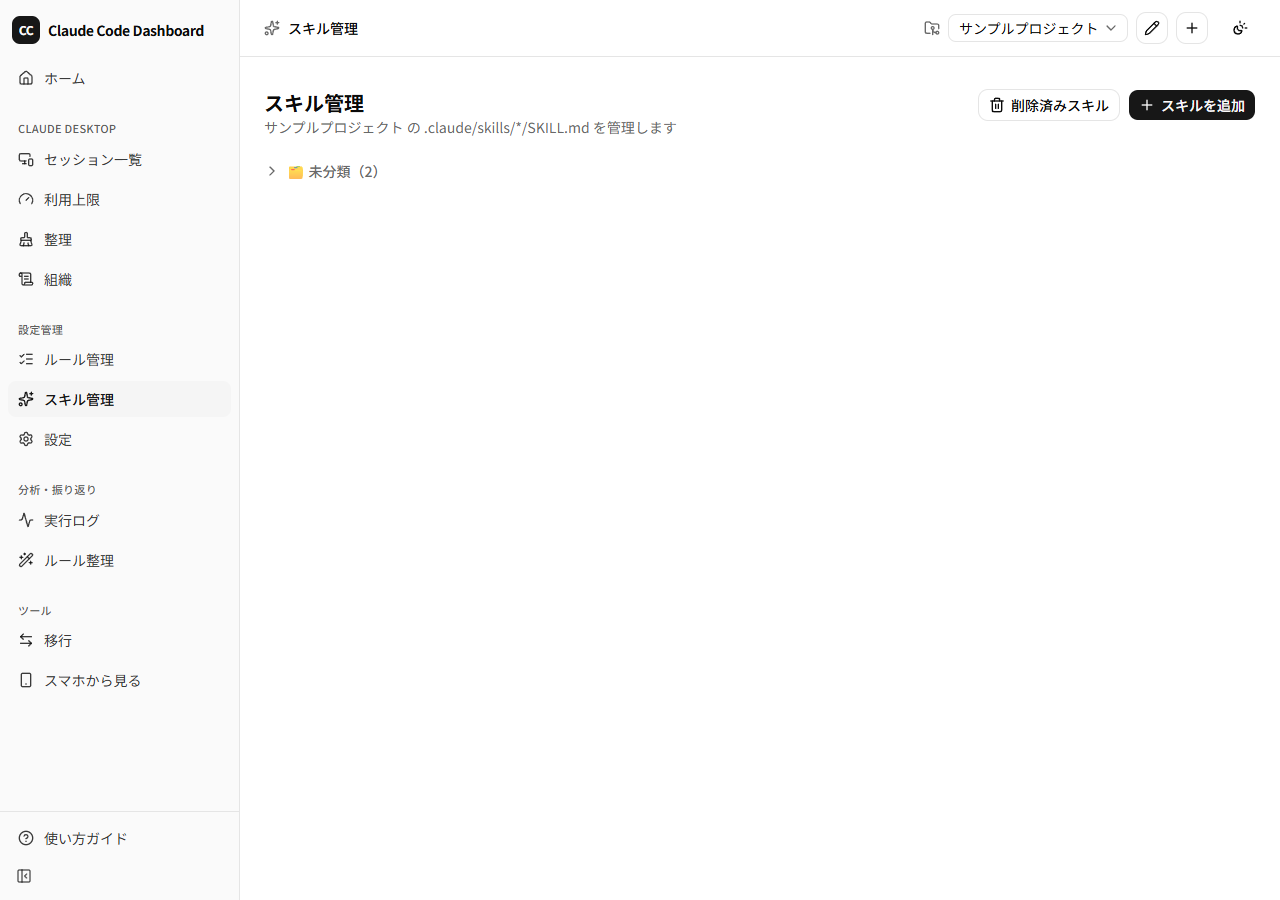
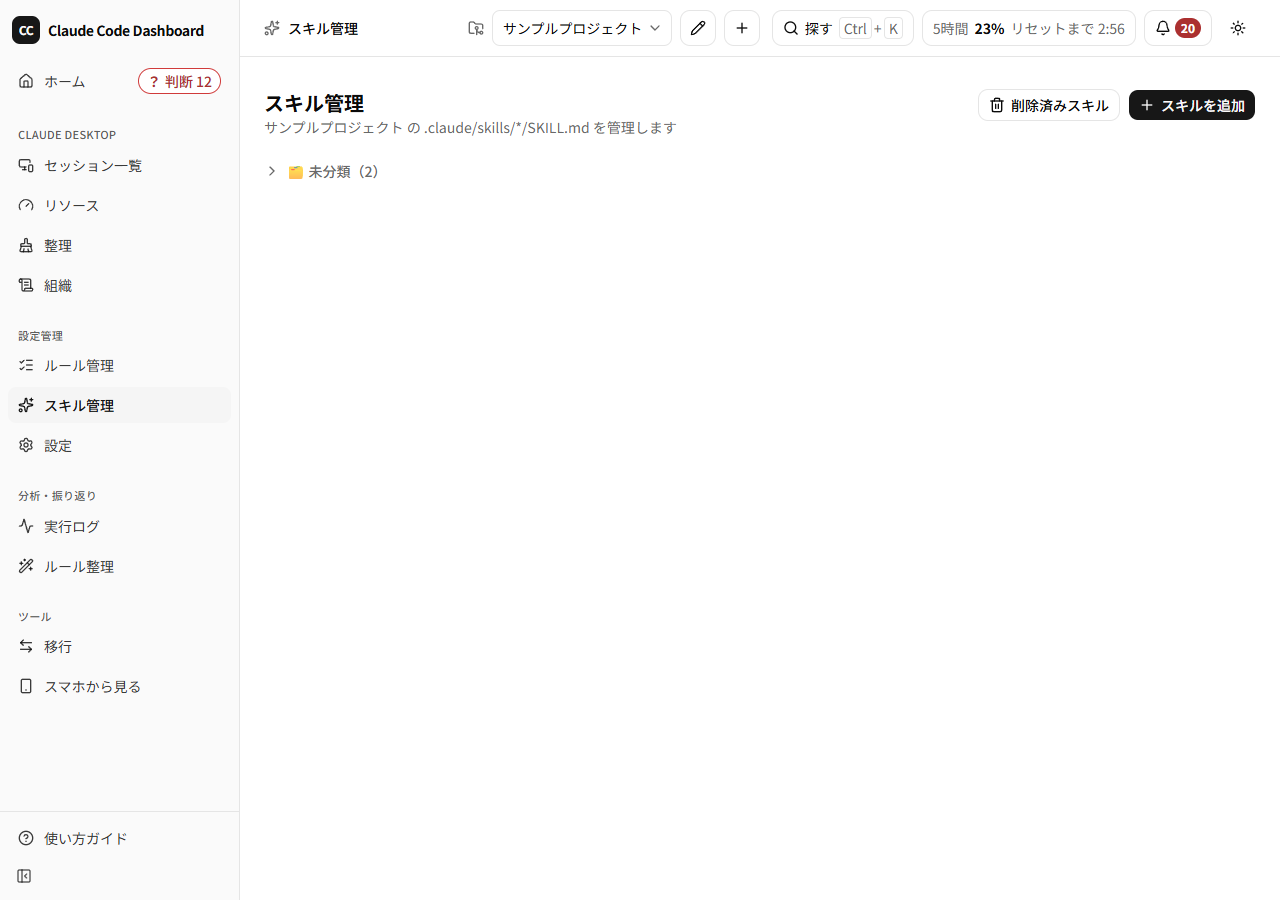
docs: ⑮ 段6 使い方ガイド・README・/help と画像を上のバーと看板に合わせる
- README：上のバー（探す・利用上限の札・知らせの鐘）の項、セッション一覧の看板、設定のツリーに inbox-read.json
- 使い方ガイド：共通の部分に探す・札・鐘・判断 n・状態の印の表、看板の節、上限ガードの文言、9-1 に inbox-read.json
- /help：用語6つ（探す・利用上限の札と控える・知らせの鐘と未読・判断 n・状態の印・看板と静か）と FAQ の文言
- 画像：上のバーが写る17枚を撮り直し、看板・鐘・探すの3枚を足した（合成データ・窓を出さない Electron）

要件: OR-1・OR-2・OR-3・OR-4・OR-5

diff --git a/src/app/help/page.tsx b/src/app/help/page.tsx
@@ -122,6 +122,35 @@ const GLOSSARY: { term: string; description: string }[] = [
     term: "記録なし",
     description: "CPU の記録が3分を超えて空いた所。PC の再起動や、記録の仕組みが止まっていた間。［負荷］の図で灰色になる。",
   },
+  {
+    term: "探す（Ctrl+K）",
+    description:
+      "どのページからでも Ctrl+K（または上のバーの「探す」）で開く入力欄。名前の一部で、セッション・グループ・ページを探す（全角と半角、大文字と小文字は区別しない）。何も打たないときは、次にやる判断・終わった・止まったかもしれないを3件ずつ出す。Enter で詳細、Shift+Enter で Claude Desktop で開くだけ、Esc で閉じる。",
+  },
+  {
+    term: "利用上限の札・控える",
+    description:
+      "上のバーの、いちばんきつい利用上限の％。上限ガード中か、5時間・週の％が80%以上のときは、黄色の地に「！ 控える」が付く（ホームの帯と同じ決め方）。押すと全部の窓がきつい順に出る。",
+  },
+  {
+    term: "知らせの鐘・未読",
+    description:
+      "上のバーの鐘の数は、見ていない知らせの数（新しく判断待ちになった・報告してターンが終わった・送信上限で止まった・PC の警告・利用上限が80%／95%を超えた）。閉じていた間の分も開いたときに出る。押して見たものは既読になり、見た時刻・対象の ID・種類だけを config/inbox-read.json に覚える（30日で消える）。",
+  },
+  {
+    term: "判断 n",
+    description: "サイドバーのホームの横の数。次にやる判断の件数（ホームと同じ）。",
+  },
+  {
+    term: "状態の印",
+    description:
+      "どのページでも同じ形の、記号と文字と色の印。？＝判断待ち・×＝送信上限やエラー（色は次にやる判断の段：急ぎ＝赤・今日中＝琥珀・いつでも＝灰）、◌＝作業中（青）、‖＝止まったかも（琥珀）、●＝終わった（緑）、－＝静か（灰）。",
+  },
+  {
+    term: "看板・静か",
+    description:
+      "セッション一覧の［看板］。次にやる判断・作業中（下に止まったかもしれない）・完了（未読と24時間）・静かの4列。静かは、24時間より前に動いた見た物。確認待ち・中断の可能性・エラーは静かに入らない。",
+  },
 ]
 
 interface PageGuide {
@@ -172,7 +201,7 @@ const PAGE_GUIDES: PageGuide[] = [
     label: "セッション一覧",
     icon: MonitorSmartphone,
     description:
-      "Claude Desktopの全セッションを一覧し、どれが動いていて、どれが止まっているかを確認する（読み取り専用、5秒ごとに更新）。サイドバーの「Claude Desktop」には、このページのほかに「リソース」「整理」「組織」のページがあり、見たい内容ごとに分かれている（組織図はホームに出る）。状態（実行中・要対応〈許可待ち・承認待ち・判断待ち〉・待機・確認待ち・完了・中断の可能性・入力待ち）、モデル・エフォート、サイドバーのグループ、コンテキスト使用量、タスクリストの進み具合（実行中のステップ名）、最新の指示の先頭60文字（人／他セッション／通知を区別。起動直後は、会話ログの末尾だけを先に調べるため、人以外の指示が出ている間は「解析中」の印が付き、全体の解析が済むと人の指示に置き換わる）、要対応のセッションには要対応の内容の先頭60文字を表示する。「一覧」「グループ別」の切替と、状態・グループ・モデル・作業フォルダの絞り込みができる。「要対応・確認待ち・完了」はDesktopがターン後に付けた分類、「実行中」「中断の可能性」は会話ログの更新状況からの推定。コンテキスト使用量の上限は記録されていないため、モデルごとの仮置き値で割っている。行を押すとタスクリスト全体と「健康」の欄が開く。「健康」を開くと、会話ログから、無限ループ（沼）の兆候・ワークフローの安定性・拡張機能（MCP）の稼働・セッションの寿命の4つの観点の診断（良好・注意・要対処と、根拠・判定基準・次の行動）と、Claude Code のターミナルで session-diagnostician スキルを実行したときの AI 診断が出る（会話ログの解析は重いので、開いたときだけ読む）。「要対応」の件数カードは、ホームの「次にやる判断」と同じ数え方。ページ上部のスイッチで、デスクトップ通知（新しく要対応になったとき・利用上限が80%・95%を超えたとき・送信上限で止まったとき）をオンにできる（初期値はオフ。exeはOSの通知、ブラウザはブラウザの通知の許可が必要。外部のサービスは使わず、通知にはセッション名と要対応の内容の抜粋だけを出す。同じセッションの同じ状態では1回だけ通知し、起動直後にすでに要対応だったものは通知しない。通知をクリックすると、そのセッションの詳細が開く）。Desktopのデータが読めない場合は、会話ログだけの縮退表示に切り替わる。各セッションには、他のセッションへ送ったメッセージの数（送信 n/10。人が最後に入力してからの回数で、8回以上で黄、10回で赤）を表示し、上限で止まっているセッションは「送信上限で停止中」と赤で示す。",
+      "Claude Desktopの全セッションを一覧し、どれが動いていて、どれが止まっているかを確認する（読み取り専用、5秒ごとに更新）。サイドバーの「Claude Desktop」には、このページのほかに「リソース」「整理」「組織」のページがあり、見たい内容ごとに分かれている（組織図はホームに出る）。状態（実行中・要対応〈許可待ち・承認待ち・判断待ち〉・待機・確認待ち・完了・中断の可能性・入力待ち）、モデル・エフォート、サイドバーのグループ、コンテキスト使用量、タスクリストの進み具合（実行中のステップ名）、最新の指示の先頭60文字（人／他セッション／通知を区別。起動直後は、会話ログの末尾だけを先に調べるため、人以外の指示が出ている間は「解析中」の印が付き、全体の解析が済むと人の指示に置き換わる）、要対応のセッションには要対応の内容の先頭60文字を表示する。「一覧」「グループ別」の切替と、状態・グループ・モデル・作業フォルダの絞り込みができる。「要対応・確認待ち・完了」はDesktopがターン後に付けた分類、「実行中」「中断の可能性」は会話ログの更新状況からの推定。コンテキスト使用量の上限は記録されていないため、モデルごとの仮置き値で割っている。行を押すとタスクリスト全体と「健康」の欄が開く。「健康」を開くと、会話ログから、無限ループ（沼）の兆候・ワークフローの安定性・拡張機能（MCP）の稼働・セッションの寿命の4つの観点の診断（良好・注意・要対処と、根拠・判定基準・次の行動）と、Claude Code のターミナルで session-diagnostician スキルを実行したときの AI 診断が出る（会話ログの解析は重いので、開いたときだけ読む）。「要対応」の件数カードは、ホームの「次にやる判断」と同じ数え方。ページ上部のスイッチで、デスクトップ通知（新しく要対応になったとき・利用上限が80%・95%を超えたとき・送信上限で止まったとき）をオンにできる（初期値はオフ。exeはOSの通知、ブラウザはブラウザの通知の許可が必要。外部のサービスは使わず、通知にはセッション名と要対応の内容の抜粋だけを出す。同じセッションの同じ状態では1回だけ通知し、起動直後にすでに要対応だったものは通知しない。通知をクリックすると、そのセッションの詳細が開く）。Desktopのデータが読めない場合は、会話ログだけの縮退表示に切り替わる。各セッションには、他のセッションへ送ったメッセージの数（送信 n/10。人が最後に入力してからの回数で、8回以上で黄、10回で赤）を表示し、上限で止まっているセッションは「送信上限で停止中」と赤で示す。上の切り替えの［看板］で、次にやる判断・作業中・完了（未読と24時間）・静かの4列に分けて見られる（並びは急ぐ順 → 新しい順。マウスが看板の上にある間は入れ替わらない）。",
   },
   {
     href: "/desktop-sessions/usage",
@@ -261,7 +290,7 @@ const FAQ: { q: string; a: string; id?: string }[] = [
   },
   {
     q: "利用上限の通知や「上限ガード」の帯はいつ出る？",
-    a: "デスクトップ通知は、「セッション一覧」「利用上限」のページ上部にある通知のスイッチをオンにしているとき、ゲージの%（推定があれば推定）が80%・95%を超えた時点で、枠ごと・しきい値ごとに1回だけ出ます（開いた直後にすでに超えていたものは通知しません）。帯は、最新の公式値が80%以上のとき「上限に近づいています」、90%以上のとき「上限ガード中：新しい指示は保留中です」と、Claude Desktopの各ページ（セッション一覧・利用上限など）の上部に出ます。ホームでは、利用上限の1行の帯に出ます。ガードの判断そのものは運用ルール側で行い、ダッシュボードは表示するだけです。帯の%は公式値、ゲージの%は推定を含む値なので、丸めた値が違うときは、帯に推定の%も添えます。ゲージの色と通知は、画面に出す丸めた%で決めます（94.6%は95%と出て赤になり、95%の通知も出ます）。ゲージの「100%に達する見込み」がリセットより前でも、その差が小さい（5時間の枠は15分以内、週の枠は2時間以内）ときは、予測の誤差の範囲なので、赤い警告ではなく黄色で「リセットとほぼ同時」と示します。「誰が使っているか」の積み上げ棒は、ドルではなく「上限の何%に当たるか」で表します（定額プランでは、ドルが請求額と誤解されやすいため）。1%あたりの金額が決まらない間は、全体に占める割合で表します。",
+    a: "デスクトップ通知は、「セッション一覧」「利用上限」のページ上部にある通知のスイッチをオンにしているとき、ゲージの%（推定があれば推定）が80%・95%を超えた時点で、枠ごと・しきい値ごとに1回だけ出ます（開いた直後にすでに超えていたものは通知しません）。帯は、最新の公式値が80%以上のとき「上限に近づいています：新しい指示を控える」、90%以上のとき「上限ガード中：新しい指示を控える」の1行で、Claude Desktopの各ページ（セッション一覧・リソースなど）の上部に出ます（%は上のバーの利用上限の札に出ます）。ホームでは、利用上限の1行の帯に出ます。ガードの判断そのものは運用ルール側で行い、ダッシュボードは表示するだけです。札の小窓では、公式値と推定（ゲージの%）の両方が見られます。ゲージの色と通知は、画面に出す丸めた%で決めます（94.6%は95%と出て赤になり、95%の通知も出ます）。ゲージの「100%に達する見込み」がリセットより前でも、その差が小さい（5時間の枠は15分以内、週の枠は2時間以内）ときは、予測の誤差の範囲なので、赤い警告ではなく黄色で「リセットとほぼ同時」と示します。「誰が使っているか」の積み上げ棒は、ドルではなく「上限の何%に当たるか」で表します（定額プランでは、ドルが請求額と誤解されやすいため）。1%あたりの金額が決まらない間は、全体に占める割合で表します。",
   },
   {
     q: "「送信上限で停止中」と出たセッションはどうすればいい？",

diff --git a/README.md b/README.md
@@ -8,13 +8,14 @@ Webアプリ側は重い処理を行わず、実際の `.claude/CLAUDE.md` / `.c
 
 ## 実装済み機能
 
+- **上のバー（PC の全ページ。⑮）**— 右に **探す**・**利用上限の札**・**知らせの鐘**・テーマの切り替えを並べる（押せる所はすべて36px。1100px 未満は、探すは虫眼鏡だけ、札は％まで）。**探す**（`Ctrl+K`。字を打っている欄の中では横取りしない）は、空のときに 次にやる判断（新しい順）→ 終わった → 止まったかもしれない を束ごとに3件まで出し、打つとセッション（題名・グループ・作業フォルダの名前）・グループ・13ページを部分一致で探す（全角と半角、大文字と小文字は区別しない。アーカイブ済みは探さない）。Enter でセッションの詳細、Shift+Enter で Claude Desktop のそのセッションを開くだけ、グループはセッション一覧をそのグループに絞る。日本語の変換を確定する Enter では動かない。Ctrl+1〜6 は配る exe だけの近道。**利用上限の札**は、いちばんきつい窓の％（と、広いときはリセットまでの時間）。「！ 控える」と黄色の地はホームの帯と同じ式（上限ガード中、または 5時間・週の表示の値が80%以上）。押すと全部の窓をきつい順に、棒・％・推定か公式値か・リセットまでで出す。**知らせの鐘**は未読の数（100以上は「99+」）。知らせは5種（新しく判断待ちになった・報告してターンが終わった・送信上限で止まった・PC の警告・利用上限が80%／95% を超えた）で、今読んでいる時刻つきの記録（セッションの一覧・利用上限の記録・PC の警告の記録）から組み立てるので、窓を閉じていた間の分も出て、デスクトップ通知のスイッチとも関係ない。行を押すと、セッションは看板のそのカード、PC の警告はリソース［負荷］、利用上限はリソース［利用上限］へ移り、既読にする。既読は `config/inbox-read.json` に「見た時刻・対象の ID・知らせの種類」だけを覚え（30日で消す）、書き込みは PC の画面からだけ。サイドバーのホームの横には「？ 判断 n」（次にやる判断と同じ数）。状態の印は全画面で1つの部品（記号と文字と色。判断は次にやる判断の段の色〈急ぎ＝赤・今日中＝琥珀・いつでも＝灰〉、作業中＝◌ 青、止まったかも＝‖ 琥珀、終わった物＝● 緑）。上のバーとサイドバーは、セッション系でないページでは30秒ごとに読み、見えないときは読まない。会話の本文を出す抜粋は、PC でも秘密らしい文字列を伏せてから切る
 - **ホーム**（`/`）— いちばん上に、利用上限の1行の帯（5時間・週の%。80%以上か上限ガード中は太字の「！ 新しい指示を控える」。その上に、⑭ の PC の警告の1行〈直近10分は赤い枠、過ぎてから24時間は灰色。無いときは出ない〉）と、**次にやる判断**（⑬）を出す。次にやる判断は、あなたが答える・押す・開いて一言入れるまで止まっているセッション（許可待ち・承認待ち・質問・種類不明・送信上限で停止・エラー・届かなかった送信。待機は入れない。数え方は整理ページの件数・通知・セッション一覧の「要対応」の件数カードと同じ `collectDecisions`）を、急ぎ（送信上限・許可・エラー・立てたセッションが答えを待っている）・今日中（承認・届かない送信・待ち2時間以上）・いつでもの順に並べ（7日以上そのままのものは、理由があっても「いつでも」の最後に下げ、件数に「うち7日以上 n」と出す。「コミットの許可をください」のように許可の語とコミット・push などの語が同じ文にあるものは承認）、最初は5件まで（急ぎは全部）と［ほか n件を出す］。各行は、種類・題名・問いの文（wrap_up の ask → AskUserQuestion の先頭の問い → ExitPlanMode の1行目 → 要約の needs_action の順。3行まで、超えると［全文を開く］。許可は結果を待っているツールの先頭40字で、秘密らしい文字列を伏せる）・答えの候補（AskUserQuestion の選択肢と wrap_up のボタンの名前だけ。推しは「(Recommended)」「（推奨）」の印のあるものと、wrap_up の問いのときの先頭のボタン〈wrap_up の道具が推しを先頭に置くため〉）・待ち時間と、Claude Desktop でそのセッションを開く［セッションを開く］。問いの全文と候補をサーバーが返すのは、判断を待つセッションだけ（`src/lib/decisionDetail.ts`。パスはスマホと同じ関数で隠す）。答えはダッシュボードからは送らない。判断の要らないセッションは状態ごとの件数を1行で出す。その下に組織図（前回見ていたグループ）と、組織図に出ていないセッションの件数・組織の「つながり」への入口の1文。選んでいるプロジェクトは使わない。遅い PC でも段階を追って出す（⑫）：見出しと枠は静的な HTML に入り、件数と利用上限 → 次にやる判断の問い → 組織図の順に出し、1.5秒以上待ったときだけ上のバーに段階の印を出す。30秒たった欄には「時間がかかっています（30秒以上）。このまま待てます」と［もう一度読み込む］を、サーバーが失敗を返した欄には「読み込めませんでした」と［もう一度読み込む］を出す。サーバーは起動の直後に一覧と利用上限の台帳を裏で読み始める（`src/instrumentation.ts`）
 - **ルール管理**（`/rules`）— `CLAUDE.md` の `## 見出し` をルールとして直接パース。ON/OFFトグル（`<!-- CCD:DISABLED -->` で無効化）、追加/編集/削除（削除は確認ダイアログつき。CLAUDE.mdを書き換えるたびに直前の内容を自動で退避）、ドラッグ&ドロップによる表示順（=CLAUDE.mdの記載順）の並び替え、次回用プロンプト集（実行ログ由来）
 - **スキル管理**（`/skills`）— `.claude/skills/*/SKILL.md` の一覧・追加・編集・削除（確認ダイアログつき。完全削除はせず`skills-trash/`へ退避し、「削除済みスキル」から復元できる）・改名（ディレクトリ名変更。呼び出しコマンドが変わる旨を確認表示）・カテゴリ別グルーピング表示（frontmatterの`category`フィールドに基づく表示上の分類。実ファイルはフラット配置のまま。初めは閉じる）・有効/無効の切り替え（無効にすると`skills-disabled/`へ移し、Claude Codeから呼び出せなくなる）。対象モデル（frontmatterの`target-model`。自由入力）と成熟度（`references`/`scripts`/`evals`サブフォルダの有無）は各カードの「詳しく」に、似ているスキルの組（同じカテゴリ内でdescriptionが似た組）は閉じた欄に出す（数が増えたときだけ役立つので、初めは閉じる。⑬）。モデル別アーカイブと世代の切り替えは、スキル5個では使う場面が無いのでやめた（⑬。版は「バックアップ」と「削除済みスキル」で戻せる）
 - **設定 & システム情報**（`/settings`）— `settings.json`（権限モード・環境変数・statusLine）を読み取り専用で表示し、バックアップのタブには、Claude Code本体の`.claude.json`バックアップと、このダッシュボードが書き換え・削除の直前に作った退避（`*.ccd-backup.<epoch>`）が並び、復元できる（復元の直前の内容も退避される）。JSON の直接の編集（壊すと Claude Code が動かない）と、見ても何もできないブロック済みプラグインの一覧は、⑬ でやめた。下の「ページを開いた回数」（指示47・FS-7）は、スイッチ「開いた回数を数える」（初期値オン）と、直近7日・30日・最後に開いた日の表。サイドバーの13ページのパスと日付ごとの回数だけを `config/page-visits.json` に保存し（直近30日）、画面からは1日1パス1回・まとめて1分に1回まで送り、サーバーもファイルへは1分に1回まで書く。外部へは送らない。書き込みは PC の画面からだけ
 - **スマホから見る**（`/lan-access`）— 同じ家の Wi-Fi のスマホから、ホーム・セッション一覧・利用上限・整理の4ページを読み取り専用で見る（既定はオフ）。Next のサーバーは 127.0.0.1 のままにし、オンのときだけ別の入り口（`src/lib/lanAccess/gateway.ts`。番号 38418）が PC のプライベートな IPv4 で待ち受けて、判定（`gatewayPolicy.ts`）を通った GET・HEAD だけを中継する（Next の proxy では相手のアドレスが分からず、Host を偽るとループバック扱いになるため）。入り口は、Host が PC の IP:38418 であること・接続元がプライベートな IPv4 であること・登録した端末の鍵（HttpOnly・SameSite=Strict のクッキー。サーバーはハッシュだけを持つ）・許可リストを確かめ、書き込みは鍵があっても 403。端末は PC の画面の登録コード（QR・5分・1回限り）で登録し、期限は90日、10台まで、端末ごとに取り消せる。スマホへ返す API の応答では、作業フォルダのパスを最後のフォルダ名だけにする。入り口は `src/instrumentation.ts` で起動し、オン・オフは再起動なしで反映する。通信は HTTP（暗号化なし）なので、家の Wi-Fi の中だけで使う。スマホにはスマホ用の画面（`src/app/phone`・`src/components/phone`）を出す。proxy が入り口の経由の要求だけを振り替えるので、URL は PC と同じで、PC のページの描き方（静的）は変わらない。最初の画面に、あなたの対応待ち（件数と上位3件。問いの文を16pxで3行まで出し、入りきらないときだけ［全文を開く］。スマホへ返す問いと候補は、秘密らしい文字とパスを伏せる）・送信上限で停止・実行中の数・利用上限を出し、下の4つのタブで移る。一覧は1件1枚のカードで、詳細は全画面で開く。15秒ごとに読み直し、画面が隠れているあいだは止める。ライト・ダークは端末の設定に合わせる
 - **移行（エクスポート/インポート）**（`/migrate`）— ルール・スキルを1つのJSONファイルに書き出し、他のPC（別プロジェクト）に差分プレビュー付きで取り込む。上書き前に自動バックアップ。インポートは足す・上書きするだけで、今あるルール・スキルは消さない。移るもの・移らないものを画面の上に出す（`src/lib/migrateScope.ts`）。インポートの「ファイルを選択」はドラッグ&ドロップにも対応し、配布版exeでは`dialog.showOpenDialog`をIPC経由で直接呼び出す経路を優先する（環境差でファイル選択ダイアログが開かない事例への対処）
-- **セッション一覧**（`/desktop-sessions`）— Claude Desktopの全セッションを一覧する読み取り専用ビュー（5秒更新。サイドバーの「Claude Desktop」は、見たい内容ごとに「セッション一覧」「リソース」「整理」「組織」のページに分かれ、組織図はホームに出る）。一覧の主データはDesktopが保存するセッションのメタデータ（`claude-code-sessions/*/*/local_*.json`）で、要対応のセッションには要対応の内容の先頭60文字を表示し、会話ログ（`~/.claude/projects/*/<id>.jsonl`）から最新の指示（先頭60文字・発信元つき）・コンテキスト使用量・タスクリストの進み具合・圧縮回数を補い、サイドバーのグループ・ピン留めは`claude_desktop_config.json`の`preferences.epitaxyPrefs`の該当キーだけを読む。状態は、Desktopが付ける分類（要対応・確認待ち・完了）と、会話ログの更新状況からの推定（実行中・中断の可能性）を併記する。**要対応は4つに分ける**：許可待ち・承認待ち・判断待ち・待機（待機は要対応に数えず、ホームの判断待ち・整理ページ・通知から外す）。手がかりは、質問・プランの承認のツールで止まっていること、最後のターンのwrap_upの呼び出しの入力（質問の有無・承認のボタン〈commit・create_pr・merge〉）、無ければDesktopの要約の言葉（「推定」と出す。要約の詳しい文〈status_detail〉は種類を決めるのに使うだけで、返さない）。分け方は`src/lib/needsActionKind.ts`の表。Desktopの内部形式は非公開・非保証のため読み取り処理は`src/lib/desktopSessions.ts`に隔離し、読めない場合は会話ログだけの縮退表示に切り替える。認証トークンを含む`config.json`は読まず、APIは表示用の許可リスト項目だけを返す。新しく要対応になったセッションのデスクトップ通知（初期値はオフ。exeはElectron、ブラウザはNotification API。外部サービスは使わず、本文はセッション名と要対応の内容の抜粋だけ。クリックで詳細を開く）に対応（「CLIプロセスあり」の表示は、判断に使わず PowerShell を定期的に呼ぶ負荷だけが残るので、⑬ でやめた）。行を押して開く詳細には「健康」の欄があり、開くと会話ログ（`~/.claude/projects/*/*.jsonl`）から、無限ループ（沼）の兆候・ワークフローの安定性・拡張機能（MCP）の稼働・セッションの寿命の4つの観点を良好/注意/要対処で判定し、根拠・しきい値・次の行動を出す（`src/lib/sessionDiagnostics.ts` の `diagnoseHealth`。⑬ でセッション監視のページから移した）。Claude Code側のスキル`session-diagnostician`が書き出す`session_diagnosis.json`があれば、AI診断も並べる（ダッシュボード自身はLLMを呼ばない）。他のセッションへのメッセージ送信には「人が最後に入力してから10回まで」という上限があるため、各セッションに**送信回数**（送信 n/10。8回以上で黄、10回で赤。届かなかった送信も数える）を表示し、上限で止まっているセッションは**「送信上限で停止中」**を赤で目立たせて、Claude Desktopでそのセッションを開くボタン（`claude://`のリンク。exeは許可した形式のURLだけを開く）を出す。新しく停止したときのデスクトップ通知（要対応の通知と同じスイッチ）にも対応。回数は会話ログの送信ツール（`SendMessage`・セッション管理の送信ツール）の呼び出しから数え、停止は送信ツールの結果の文言から判定する（文言は非保証のため、判定条件は`src/lib/sessionMessaging.ts`の1か所に集約）。サンプルは`sample-data/claude-desktop/`（すべて合成データ）
+- **セッション一覧**（`/desktop-sessions`）— Claude Desktopの全セッションを一覧する読み取り専用ビュー（5秒更新。サイドバーの「Claude Desktop」は、見たい内容ごとに「セッション一覧」「リソース」「整理」「組織」のページに分かれ、組織図はホームに出る）。一覧の主データはDesktopが保存するセッションのメタデータ（`claude-code-sessions/*/*/local_*.json`）で、要対応のセッションには要対応の内容の先頭60文字を表示し、会話ログ（`~/.claude/projects/*/<id>.jsonl`）から最新の指示（先頭60文字・発信元つき）・コンテキスト使用量・タスクリストの進み具合・圧縮回数を補い、サイドバーのグループ・ピン留めは`claude_desktop_config.json`の`preferences.epitaxyPrefs`の該当キーだけを読む。状態は、Desktopが付ける分類（要対応・確認待ち・完了）と、会話ログの更新状況からの推定（実行中・中断の可能性）を併記する。**要対応は4つに分ける**：許可待ち・承認待ち・判断待ち・待機（待機は要対応に数えず、ホームの判断待ち・整理ページ・通知から外す）。手がかりは、質問・プランの承認のツールで止まっていること、最後のターンのwrap_upの呼び出しの入力（質問の有無・承認のボタン〈commit・create_pr・merge〉）、無ければDesktopの要約の言葉（「推定」と出す。要約の詳しい文〈status_detail〉は種類を決めるのに使うだけで、返さない）。分け方は`src/lib/needsActionKind.ts`の表。Desktopの内部形式は非公開・非保証のため読み取り処理は`src/lib/desktopSessions.ts`に隔離し、読めない場合は会話ログだけの縮退表示に切り替える。認証トークンを含む`config.json`は読まず、APIは表示用の許可リスト項目だけを返す。新しく要対応になったセッションのデスクトップ通知（初期値はオフ。exeはElectron、ブラウザはNotification API。外部サービスは使わず、本文はセッション名と要対応の内容の抜粋だけ。クリックで詳細を開く）に対応（「CLIプロセスあり」の表示は、判断に使わず PowerShell を定期的に呼ぶ負荷だけが残るので、⑬ でやめた）。行を押して開く詳細には「健康」の欄があり、開くと会話ログ（`~/.claude/projects/*/*.jsonl`）から、無限ループ（沼）の兆候・ワークフローの安定性・拡張機能（MCP）の稼働・セッションの寿命の4つの観点を良好/注意/要対処で判定し、根拠・しきい値・次の行動を出す（`src/lib/sessionDiagnostics.ts` の `diagnoseHealth`。⑬ でセッション監視のページから移した）。Claude Code側のスキル`session-diagnostician`が書き出す`session_diagnosis.json`があれば、AI診断も並べる（ダッシュボード自身はLLMを呼ばない）。他のセッションへのメッセージ送信には「人が最後に入力してから10回まで」という上限があるため、各セッションに**送信回数**（送信 n/10。8回以上で黄、10回で赤。届かなかった送信も数える）を表示し、上限で止まっているセッションは**「送信上限で停止中」**を赤で目立たせて、Claude Desktopでそのセッションを開くボタン（`claude://`のリンク。exeは許可した形式のURLだけを開く）を出す。新しく停止したときのデスクトップ通知（要対応の通知と同じスイッチ）にも対応。回数は会話ログの送信ツール（`SendMessage`・セッション管理の送信ツール）の呼び出しから数え、停止は送信ツールの結果の文言から判定する（文言は非保証のため、判定条件は`src/lib/sessionMessaging.ts`の1か所に集約）。サンプルは`sample-data/claude-desktop/`（すべて合成データ）。上の切り替えに［看板］（⑮）：次にやる判断・作業中（下に「止まったかもしれない」）・完了（未読と直近24時間）・静か（24時間より前。［n件を出す］）の列に分け、確認待ち・中断の可能性・エラーは静かに入れない。カードは題名・状態の印・グループ・経過・抜粋1行と、作業計画が読めるときだけ「今：<作業>［段階］」。並びは急ぐ順 → 新しい順で、ポインタが看板の上にある間は入れ替えない。看板のときは一覧の頭の部品を出さず、絞り込みはグループだけ。幅が足りないときは3列にし、静かは1行
 - **リソース**（`/desktop-sessions/usage`。⑭）— 前の「利用上限」のページ。上の下線のタブで［利用上限］［作業と待ち］［負荷］を切り替える（`?tab=usage`・`plan`・`load`。前回のタブは覚えず、サイドバーから開くといつも［利用上限］）。［作業と待ち］は、各セッションが書く作業計画（`work_plan.tsv`）と利用上限の待ち行列（`resume_queue.tsv`）を読み、回復を待っているセッション（回復の見込みの時刻・残り時間・次の一歩）と、グループごとの今の作業（状態・順・大きさ・再開のしやすさ。待ち行列にいるセッションの作業中は「待ち（上限）」）を出す。［負荷］は、CPU の記録（`cpu_YYYYMMDD.tsv`。約1分ごと）を読み、PC 全体の CPU とメモリの推移の図（切り替え。1・2・6・24時間と日付。しきい値の点線・警告の斜線の帯・記録なし〈3分超の空き〉の灰色。図は role=slider で、押す・なぞる・矢印で時刻を選ぶ）、つながりの図「どこに CPU を使っているか」（上位8件・ほか・セッションの外 → PC 全体。線の太さと流れる粒が PC 全体に対する割合。粒は30回／秒まで、動きを減らす設定・止める・隠れているときは止める）、選んだ時刻に動いていたセッションの表を出す。しきい値は記録の警告の行（`CPU 85% 以上`・`メモリ 90% 以上`）の数字を読むだけで、アプリの中には持たない。PC の警告は、タブの下の帯・ホームの帯・サイドバーの「！」・通知（今の通知のスイッチ）にも出す。3つのファイルと記録の仕組みは読むだけ（書かない・動かさない）。読む場所は `config/monitor.json`（見本は `config/monitor.example.json`）。［利用上限］は、5時間・週（全モデル）・週（モデル別）の上限のゲージ（80%で黄・90%で橙・95%で赤）、リセットまでの残り時間、今のペースで何時に100%になるか（リセットより先に達する場合は警告。リセットとの差が小さい場合〈5時間の枠は15分以内・週の枠は2時間以内〉は赤でなく黄色で「リセットとほぼ同時」）、直近5時間と今週にどのセッション・グループが使っているか（上限の何%に当たるかで表す積み上げ棒。ドルは請求額と誤解されるため出さず、係数が決まらないときは全体に占める割合）を表示する。80%・95%を超えたときのデスクトップ通知（要対応の通知と同じスイッチ）、最新の公式値が80%以上（「上限に近づいています」）・90%以上（「上限ガード中：新しい指示は保留中です」）のときの帯（Claude Desktopのページの上部とホームの帯に表示。表示のみ。ガードの判断は運用ルール側）に対応。**公式値**は`~/.claude-dashboard/usage-snapshots.jsonl`（1行1件。記録は別の運用で追記する）を読み取るだけで、書かない。公式値の記録の間は、会話記録（`~/.claude/projects/*/*.jsonl`と`<セッション>/subagents/*.jsonl`）のトークン量を、`message.id`で重複を除いたうえでAPI価格で金額に換算し、公式値で較正した係数で割って**推定**する（画面には「推定」と幅を明示する。推定と公式値の差〈中央値・90%点〉は作る側の確かめなので画面に出さず、自動テストで確かめる）。モデルの価格表は`config/usage.json`の`prices`で直せる（見本は`config/usage.example.json`）。認証情報（`.credentials.json`・Desktopの`config.json`）は読まない。外部との通信なし・LLM呼び出しなし
 - **組織図**（ホーム `/` に表示。以前の `/desktop-sessions/org` はホームへ移る）— グループごとに、指揮役のカードを上に、グループ内のセッションのカードを作成順に下に並べ、直近4時間の指示（指揮役→子、青い粒が下へ）・報告（子→指揮役、緑の粒が上へ。粒の大きさは作業量）・他のグループや外部（CLI）からの連絡（紫の点線）を、新しく起きたものだけ線の上の動きで見せる読み取り専用ビュー。指示と他グループ連絡は先頭20文字だけを線の横に出し、報告の本文は出さない。報告せずにターンが終わったセッションは灰色の「報告なしで終了」、作業中のカードは脈動し、カードにはコンテキストの%（80%で黄・90%で赤）と最新の指示を出す。出来事の一覧は初めは閉じる。過去を再生する「振り返り」、上の4つの集計、期間と並び順の選択、「見方」の説明、カードの作業量のバー・指示と報告の本数・トークン量・中断の可能性の印は、判断に結びつかないので ⑬ でやめた。指揮役は、グループ内でタイトルが接頭辞（既定 `00_`）で始まるセッション。接頭辞は `config/desktop-sessions.json` の `orchestratorPrefix` で変える（設定を変えたら再起動）。接頭辞に合うセッションが無いグループは、カードだけを並べて線は引かない。グループの並びの最後に「クラウドのセッション（claude.ai で開く）」を置き、`https://claude.ai/code` を新しいタブ（exe は既定のブラウザ。`electron/externalUrl.js` の許可リストに完全一致で入れた）で開く。クラウドのセッションの中身は claude.ai のログインの鍵が要るので出さない（⑬ CL-1）。指揮役の子（2層目）が作った補助のセッションは、その子のカードの下に字下げして並べる（3層目）。親は、Desktopのメタデータの `spawnedFrom.sessionId` だけで判断する。3層目はグループに入っていなくても出る（親が2層目の子のときだけ）。4層目以降は2層目の祖先の下にまとめて並べ、アーカイブ済みは出さない。サイドチャット（`spawnedFrom.btw` と `spawnedFrom.userFork` が両方 true のもの）はカードにせず、親のカードに「サイドチャット n」と数だけ出す。指示が無くても、直近1分以内にツールを呼んでいれば、カードは「作業中」になる。会話ログの読み込みは差分読みで、外部のAPI・LLMは使わない。動作確認用の合成データは `node scripts/make-org-chart-sample.mjs <出力先>` で作れる（手順は `sample-data/claude-desktop/README.md` と `/help`。同じ出力先に作り直したときは、ダッシュボードを再起動する）。
 - **組織**（`/org-rules`）— 上の下線つきのタブ（`role=tablist`・←→ キー・`?tab=rules`／`?tab=links`・前回の選択を覚える。部品は `src/components/ui/underline-tabs.tsx` と `src/hooks/useTabParam.ts`）で［決まり］と［つながり］を切り替える。読み取り専用。［決まり］は、全グループ共通の決まり（グローバルの `~/.claude/CLAUDE.md`。「組織の運用」「セッションの題名」の節を先頭に出す）と、グループごとの指揮役の決まり（組織図と同じ指揮役の作業フォルダの `CLAUDE.md` と、指揮役の会話ログのフォルダの `memory` の一覧。記憶の本文は開いたときだけ返す。索引 `MEMORY.md` とのずれに印）、`config/org-rules.json` の `extraFiles` に書いたファイル（`.md`・`.txt`、1MB まで。見本は `config/org-rules.example.json`）、選んでいるプロジェクトの記憶の一覧（もとのメモリ管理。初めは閉じる。種類別に絞り込める）を並べる。本文の中の「NN_題名」が今のセッションの題名と合わないものに印を付ける。指揮役でないセッションのフォルダは読まない。WSL の作業フォルダは「読めない」と出す。認証情報などの拒否リストを通す。グローバルの `CLAUDE.md` の場所は `globalClaudeMdPath` か環境変数 `CCD_GLOBAL_CLAUDE_MD` で変えられる。［つながり］（⑬ の関係性マップ。`/api/relations`）は、グループの一覧で1つを選び、指揮役・担当・確認役・補助のカード（7件以上は最初の6枚と「ほか n件」）、効いているものの表（全体の決まり・作業フォルダとその上の `CLAUDE.md`・会話ログの置き場の `memory`・ユーザーのスキルと直近30日の呼び出し・設定で結んだ指示ファイル。本文は返さない）、直近7日のグループをまたぐ頼み（Desktop の `peerReceipts` の宛先が別のグループのもの。要旨は組織図と同じ先頭20字）を出す。役割は題名の決まりだけで分け、ブランチは `writtenBranches` だけから出す（git のコマンドは呼ばない）。カードには分かる事実だけを書き、グループの見出しに「ブランチが分かるもの n/m・指示の置き場を設定したもの n/m」を出す。指示のファイル・報告の台帳と担当の結び・役割の見分け方・役割の名前は `config/relations.json`（git の外。見本は `config/relations.example.json`）に書く。設定が無ければ、指示と報告の行を出さない。クラウドのフォルダ（OneDrive・Google Drive・Dropbox）の中は調べない
@@ -23,7 +24,7 @@ Webアプリ側は重い処理を行わず、実際の `.claude/CLAUDE.md` / `.c
 - **使い方ガイド**（`/help`）— 初心者向けの用語集・各ページの使い方・FAQをまとめた解説ページ。サイドバー下部に常時リンクを表示
 - **ルール整理**（`/refactor`）— Claude Code標準スキル`rule-optimizer`（execution_log.jsonの過去のユーザー介入履歴から矛盾・重複ルールを学習）が出力する`rule_refactor_proposal.json`を読み込み、現在のCLAUDE.mdとのDiffプレビュー・ステイル検知（提案生成後の編集を検知）・選択適用（バックアップ付き）を行う。ローカルLLM（GPUモード）連携構想は方針転換により廃止し、このスキル連携方式に統一した。`/trace`と同様、ページ上部の「分析対象プロジェクト」セレクターがTopBarの選択中プロジェクトとは独立しており、適用先のCLAUDE.mdもこのセレクターで選んだプロジェクトになる
 - 複数プロジェクトの横断管理（画面右上のプロジェクトスイッチャー。実際の `~/.claude` をプロジェクトとして登録することも可能）。スイッチャーと「グローバル設定」の印は、選んでいるプロジェクトを使うページ（設定管理・実行ログ・ルール整理・移行）だけに出し、ホーム・Claude Desktop のページ・組織・使い方ガイドには出さない（`src/components/layout/navConfig.ts` の `usesProject`）
-- ライト/ダーク/システム追従のテーマ切替（TopBar右側）
+- ライト/ダーク/システム追従のテーマ切替（上のバーの右端）
 
 ⑬ の機能の整理（`docs/specs/13-decisions-and-map.md`）でやめたページ（`/project`・`/tasks`・`/memory`・`/session-monitor`）は、`next.config.ts` の redirects で移した先（ホーム・組織の「決まり」の記憶の一覧・セッション一覧）へ移す（`src/lib/removedPages.ts`）。オーナーのファイル（`execution_log.json` など）とスキルは消さない。
 移行機能はルール（CLAUDE.md の「## 見出し」ごとの節）・スキル（SKILL.md の本文と見出しの項目）のみが対象。CLAUDE.md の最初の見出しより前の文、スキルの有効・無効（無効のスキルも有効として入る）、スキルのフォルダの中のほかのファイル、settings.json、記憶（メモリ）、MCP・プラグイン、ダッシュボードのプロジェクトの登録と通知の設定は移らない。
@@ -153,7 +154,8 @@ config/
 ├── usage.example.json            # 利用上限の設定の見本（価格表 prices など）。実体 usage.json は.gitignore対象
 ├── monitor.example.json          # リソース（⑭）の作業計画・待ち行列・CPU の記録の場所の見本。実体 monitor.json は.gitignore対象
 ├── desktop-notify.json           # 通知のオン・オフ（実行時に作られる。.gitignore対象）
-└── page-visits.json              # ページを開いた回数（13ページのパスと日付ごとの回数だけ。実行時に作られる。.gitignore対象）
+├── page-visits.json              # ページを開いた回数（13ページのパスと日付ごとの回数だけ。実行時に作られる。.gitignore対象）
+└── inbox-read.json               # 知らせの鐘の既読（見た時刻・対象の ID・知らせの種類だけ。30日で消す。実行時に作られる。.gitignore対象）
 sample-data/          # 自由記述形式のCLAUDE.md・サンプルスキル・settings.json・backups・pluginsを含むダミープロジェクト
 └── claude-desktop/   # Desktopセッション画面の動作確認用の合成データ（すべて架空。手順は同フォルダのREADME.md）
 scripts/
